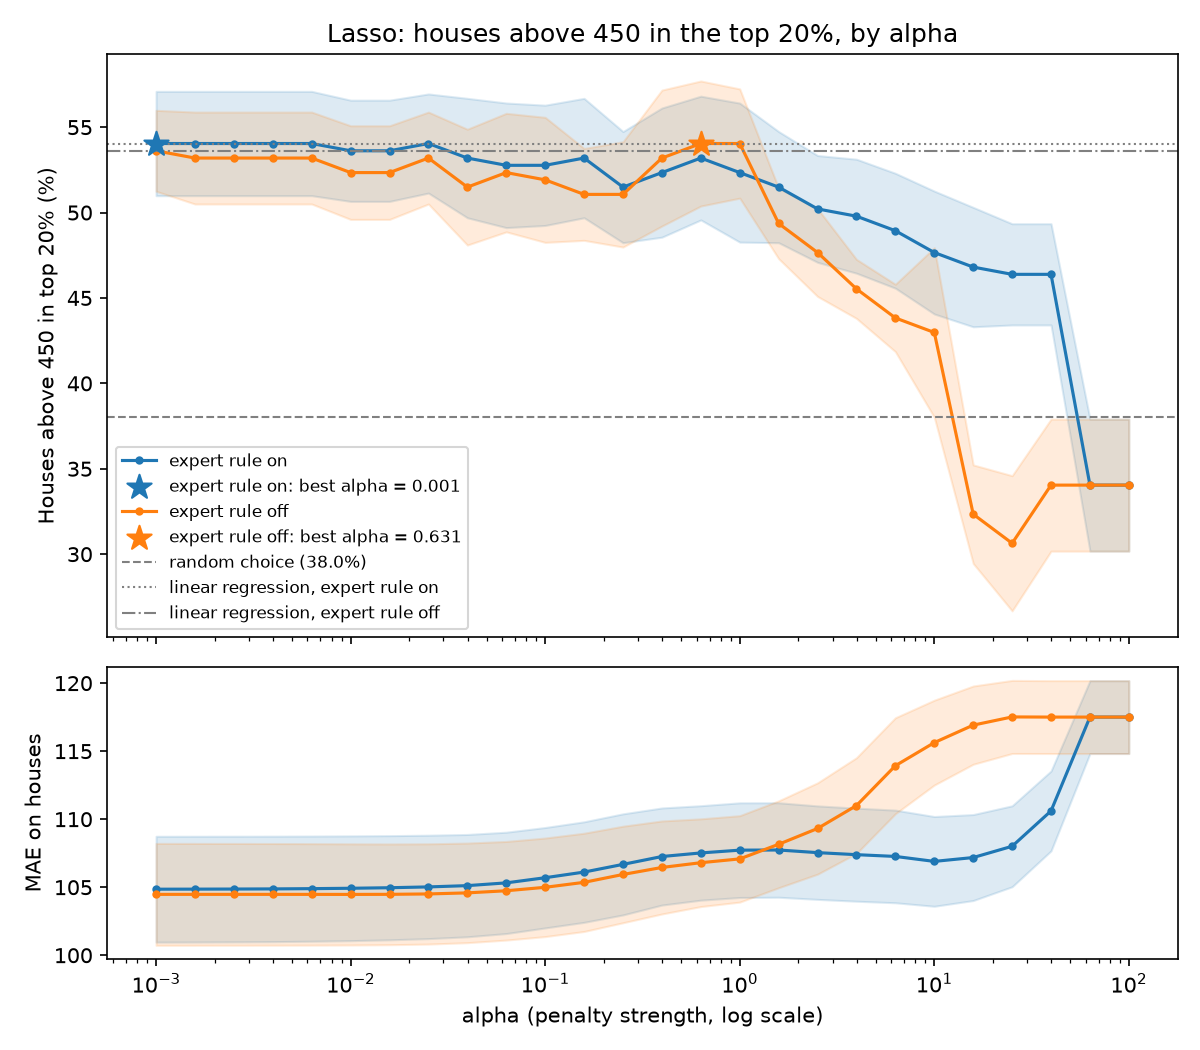
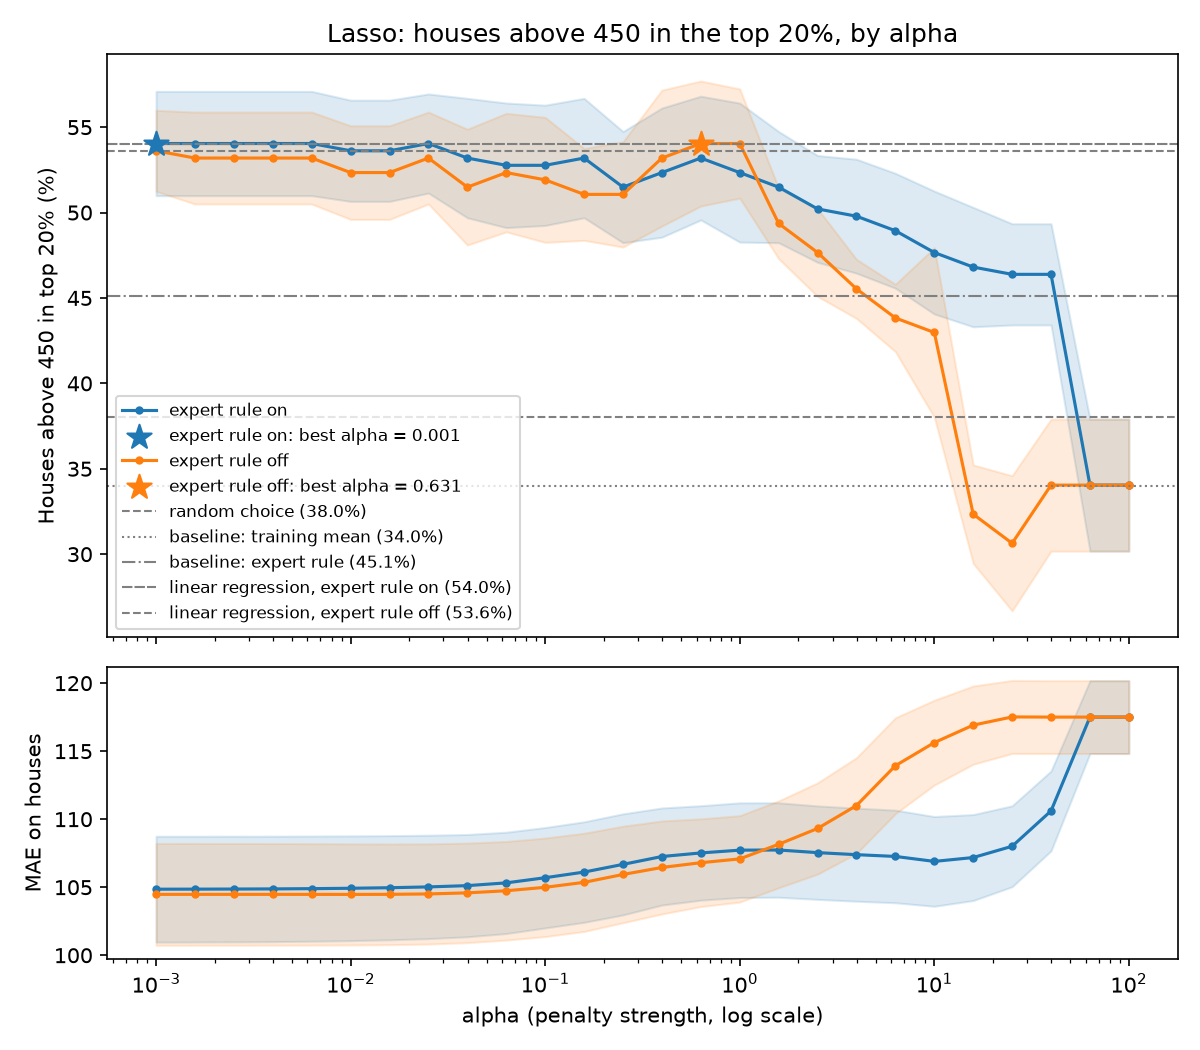
add baseline to validation figures

Changed region(s): [[0.0925, 0.3657, 0.4008, 0.5486], [0.37, 0.5486, 0.4317, 0.6095]]

diff --git a/code/cv.py b/code/cv.py
@@ -101,7 +101,7 @@ def plot_validation_curve(tables, title, reference=None, path=None, metric=SELEC
     Top: selection measure on houses (mean over the folds, band = +- one standard error) with the best alpha.
     Bottom: MAE on houses."""
     reference = reference or {}
-    fig, (ax_top, ax_mae) = plt.subplots(2, 1, figsize=(8, 7), sharex=True,
+    fig, (ax_top, ax_mae) = plt.subplots(2, 1, figsize=(11, 7), sharex=True,
                                          gridspec_kw={"height_ratios": [2, 1]})
 
     for i, (label, table) in enumerate(tables.items()):
@@ -120,14 +120,17 @@ def plot_validation_curve(tables, title, reference=None, path=None, metric=SELEC
         ax_mae.fill_between(t["alpha"], t["mae_mean"] - t["mae_se"], t["mae_mean"] + t["mae_se"],
                             color=color, alpha=0.15)
 
-    styles = ["--", ":", "-.", (0, (5, 1))]
+    # reference lines: own colour and style each, none of them C0/C1 (used by the curves)
+    styles = ["--", ":", "-.", (0, (5, 1)), (0, (1, 2))]
+    colors = ["grey", "black", "C3", "C2", "C4"]
     for j, (label, value) in enumerate(reference.items()):
-        ax_top.axhline(value * 100, color="grey", linestyle=styles[j % len(styles)], linewidth=1, label=label)
+        ax_top.axhline(value * 100, color=colors[j % len(colors)], linestyle=styles[j % len(styles)],
+                       linewidth=1.2, label=label)
 
     ax_top.set_xscale("log")
     ax_top.set_ylabel("Houses above 450 in top 20% (%)")
     ax_top.set_title(title)
-    ax_top.legend(fontsize=8, loc="best")
+    ax_top.legend(fontsize=8, loc="upper left", bbox_to_anchor=(1.01, 1))  # next to the plot, covers nothing
     ax_mae.set_xlabel("alpha (penalty strength, log scale)")
     ax_mae.set_ylabel("MAE on houses")
     fig.tight_layout()

diff --git a/README.md b/README.md
@@ -19,16 +19,20 @@ All files are linked by the federal building number (EGID).
 
 **Run:** open `code/04_main.ipynb`, select the kernel and choose **Run All**. It runs the other notebooks in order.
 Run it from the `code/` folder, because the notebooks use relative paths (`../data`, `../output`).
-It sets `np.random.seed(42)`; splits and tie-breaks also use fixed seeds.
+All notebooks and modules take the seed from `config.py` (decision 15).
 
 | File | What it does | Output |
 |---|---|---|
 | `04_main.ipynb` | runs the notebooks below in order | – |
 | `01_preprocess.ipynb` | target, implausible values, register features, house flag, year effect, heating checks, split groups, merge loss | `data/processed/building_clean.csv`, `output/merge_loss.csv`, `output/year_effect.png` |
-| `02_estimate.ipynb` | models; so far a check of the expert-rule feature | – |
+| `01b_split.ipynb` | test set and cross-validation folds (task 16) | `data/processed/split.csv` |
+| `01c_baselines.ipynb` | baselines in cross-validation: training mean and expert rule (task 18) | `output/tables/task18_baselines.csv`, `task18_oof_predictions.csv` |
+| `02_estimate.ipynb` | linear regression, ridge and lasso in cross-validation (task 20) | `output/tables/task20_*.csv`, `output/figures/task20_*.png` |
 | `03_evaluate.ipynb` | checks of the metric functions | – |
+| `config.py` | project seed and threshold | – |
 | `pipeline.py` | preprocessing pipeline used by all models | – |
 | `metrics.py` | shared metric functions (task 17) | – |
+| `cv.py` | cross-validation, choice of alpha and plots (task 20) | – |
 
 ## Repository structure
 - `code/` – notebooks and Python modules (see above)
@@ -64,7 +68,7 @@ The split is made once in `code/01b_split.ipynb` and saved in `data/processed/sp
 10. Groups and houses: buildings in the same group (shared boiler or twins) always stay in the same part, so a model cannot predict a building by copying its twin. Houses have the same share (9.2%) in every part. The share of houses above 450 is not balanced on purpose and varies between 36% and 40%.
 
 ### Baselines (task 18, fixed 23 Nov 2026)
-Computed in `code/03_evaluate.ipynb` on the same 5 folds and with the same measures as the models.
+Computed in `code/01c_baselines.ipynb`, after the split and before the models, on the same 5 folds and with the same measures as the models.
 
 11. Training mean: every building gets the average index of the training folds. All scores are equal, so the ranking is random; this is a sanity check and should give about the share of houses above 450.
 12. Expert rule: every building gets the average index of its construction period × energy group in the training folds, without smoothing, as an expert would use it. A combination not seen in training gets the overall mean. The models must beat this rule to be useful (lecturer's feedback point 4).
